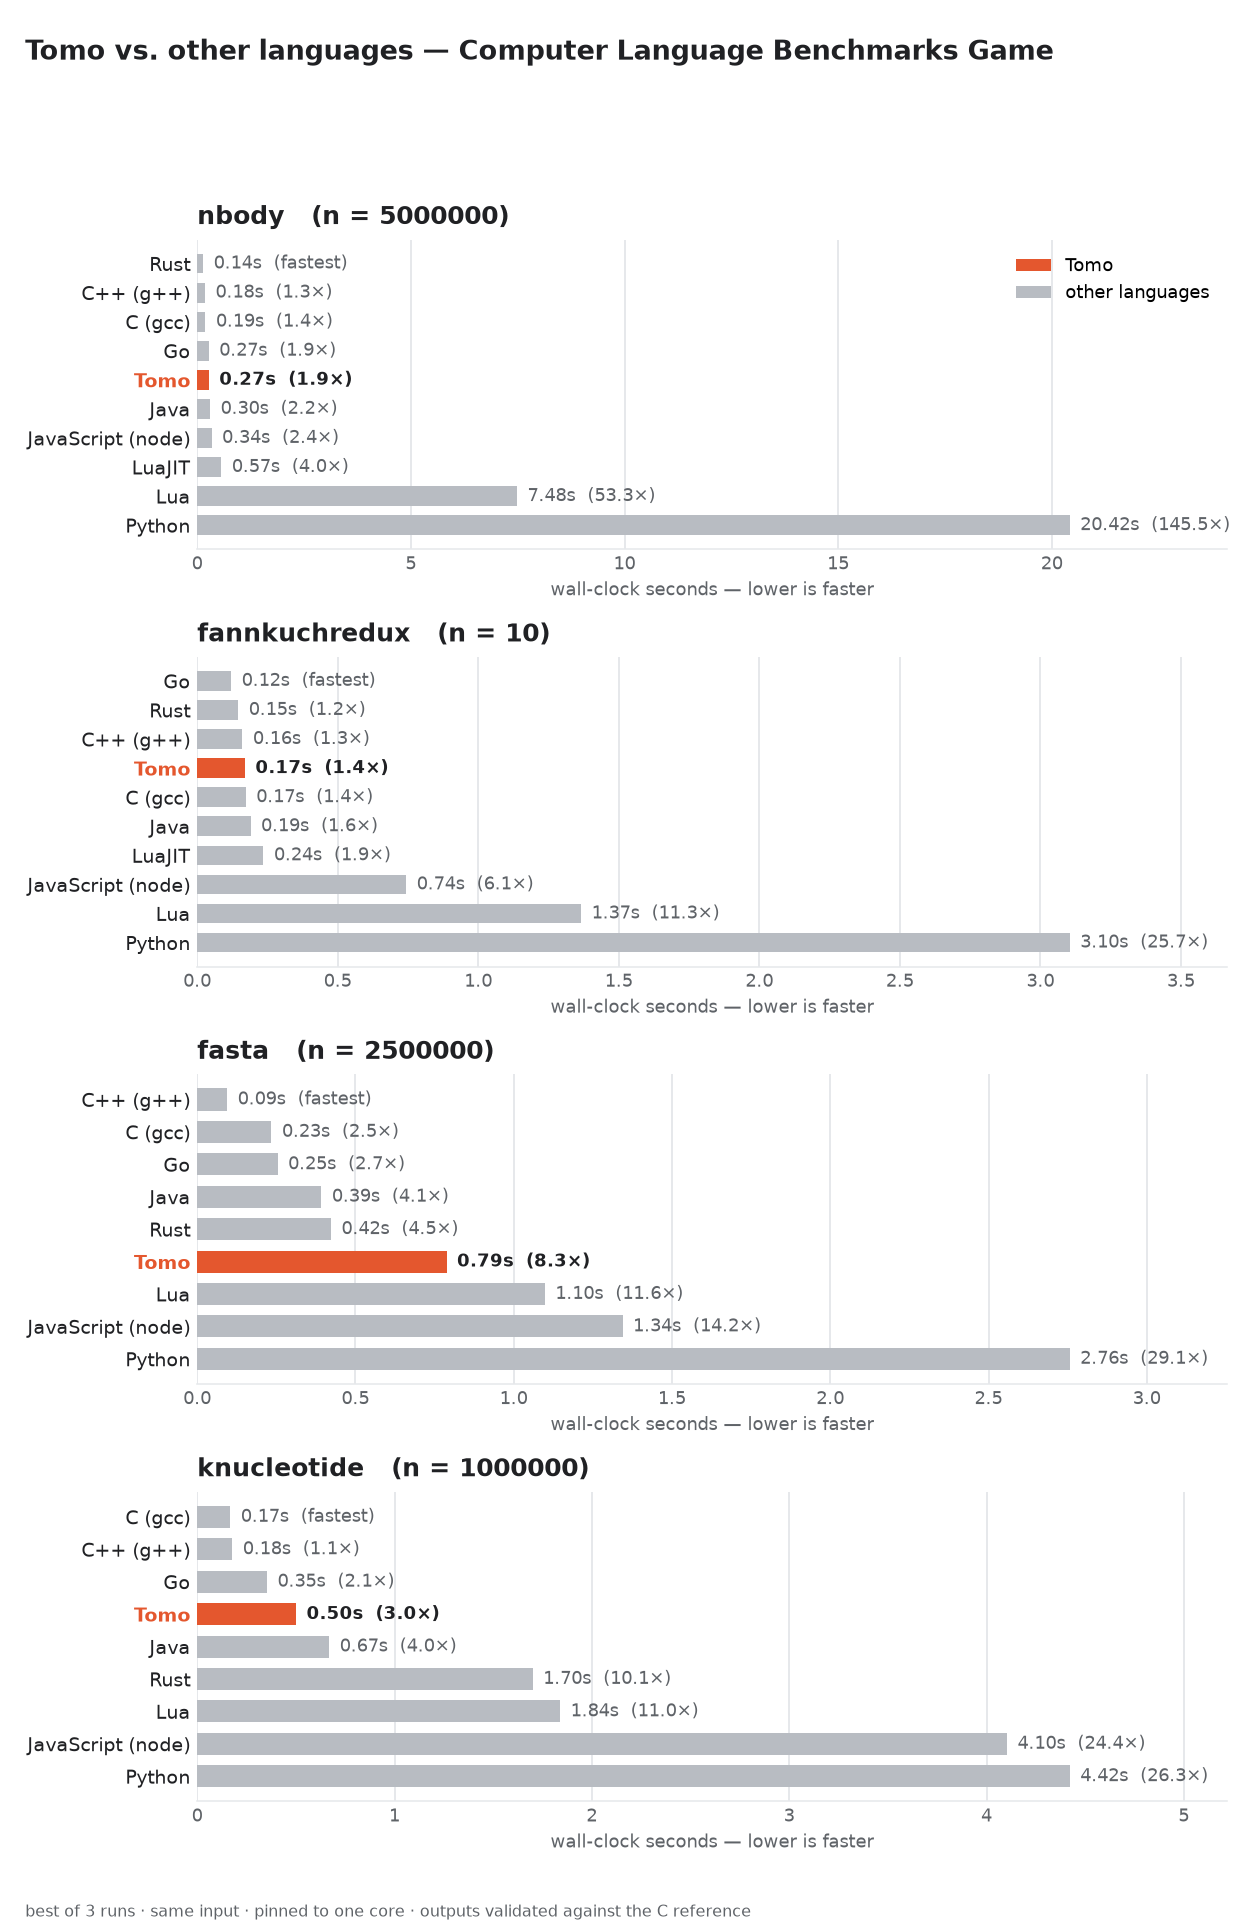
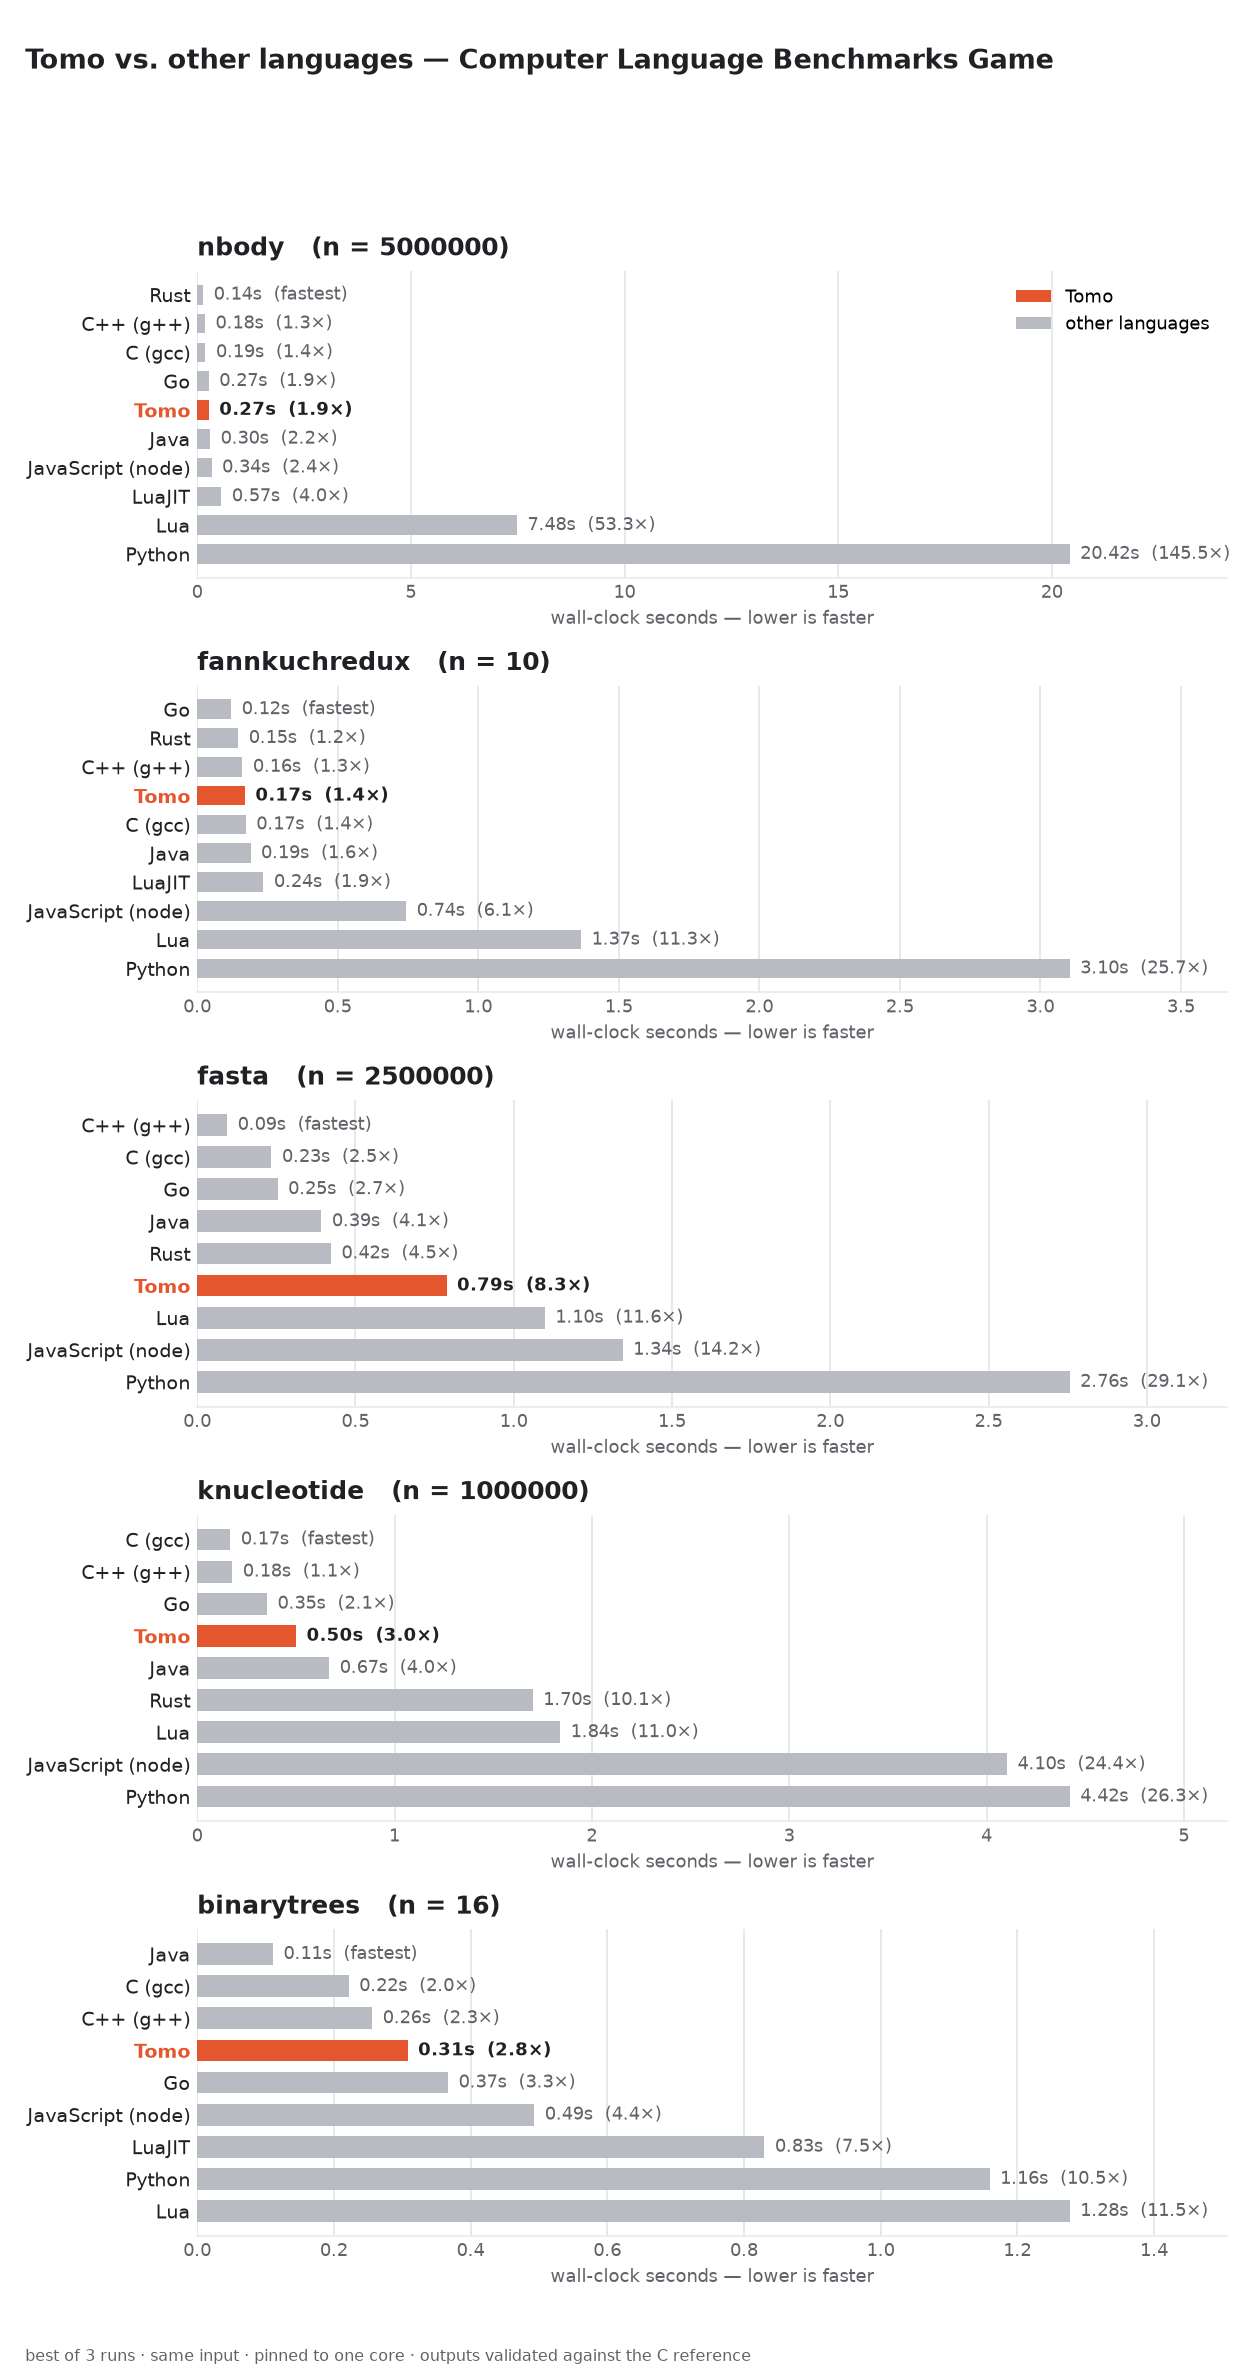
Add binary-trees benchmark with a Tomo port
Sixth CLBG benchmark: an allocation/GC stress test. The Tomo port models a
tree node as a self-referential struct with two optional heap pointers
(@Tree?), leaning on Tomo's GC rather than manual memory management — a leaf
is a node whose children are both none, matching the reference's allocation
counts. No inline C; say() produces the exact output.

At n=16 (single-core) Tomo places 4th at 0.31s — behind only AOT Java, C, and
C++, ahead of Go, Node, LuaJIT, Python, and Lua.

C++ uses the self-contained gpp-2 (gpp-1/-3 need Boost.Pool). Rust is omitted:
every CLBG Rust entry links an external arena crate (typed_arena/bumpalo)
and/or rayon, none vendored here.

diff --git a/benchmarks/README.md b/benchmarks/README.md
@@ -18,12 +18,16 @@ locally and regenerate these PNGs.
 Tomo runs shoulder-to-shoulder with the compiled languages on the tight
 compute loops (**n-body**, **fannkuch-redux**), and on the hash-table-heavy
 **k-nucleotide** it places 4th — ahead of Java, Rust, and every scripting
-language. **fasta** is the outlier, where hand-tuned byte-level output gives
-the low-level entries a wider edge, but Tomo still beats Lua, Node, and Python.
+language. **binary-trees** is an allocation/GC stress test, and Tomo again
+places 4th — behind only AOT Java, C, and C++, and ahead of Go, Node, and every
+scripting language. **fasta** is the outlier, where hand-tuned byte-level
+output gives the low-level entries a wider edge, but Tomo still beats Lua,
+Node, and Python.
 
 Per-benchmark graphs: [n-body](results-nbody.png) ·
 [fannkuch-redux](results-fannkuchredux.png) · [fasta](results-fasta.png) ·
-[k-nucleotide](results-knucleotide.png).
+[k-nucleotide](results-knucleotide.png) ·
+[binary-trees](results-binarytrees.png).
 
 ## Layout
 
@@ -38,6 +42,7 @@ benchmarks/
     fannkuchredux.tm
     fasta.tm
     knucleotide.tm
+    binarytrees.tm
   fetched/         # git-ignored — reference implementations, downloaded
   .build/          # git-ignored — compiled binaries / build scratch
   results.json     # git-ignored — measured timings
@@ -99,8 +104,8 @@ failing the run.
 ## Benchmarks
 
 Currently implemented: **n-body**, **fannkuch-redux**, **fasta**,
-**k-nucleotide**. The plan is to grow the library-free core set (spectral-norm,
-mandelbrot, binary-trees, reverse-complement) one at a time, each with a
+**k-nucleotide**, **binary-trees**. The plan is to grow the library-free core
+set (spectral-norm, mandelbrot, reverse-complement) one at a time, each with a
 validated Tomo port.
 
 **k-nucleotide** reads a FASTA file on stdin: the driver generates that input
@@ -113,5 +118,11 @@ skipped on machines where klib isn't installed there. Its Java entry uses
 LuaJIT is omitted from **fasta**: the CLBG Lua entries for it use
 `table.unpack` (Lua 5.2+), which LuaJIT (5.1 semantics) does not provide, and
 we don't patch fetched sources.
+
+Rust is omitted from **binary-trees**: every CLBG Rust entry links an external
+arena crate (`typed_arena`, `bumpalo`) and/or `rayon`, none vendored here. The
+C++ entry (`gpp-2`) is the self-contained one; the faster `gpp-1`/`gpp-3` need
+Boost.Pool. Tomo uses its own GC and heap pointers, no arena — a node is a
+self-referential struct with two optional `@Tree?` children.
 
 [clbg]: https://benchmarksgame-team.pages.debian.net/benchmarksgame/
